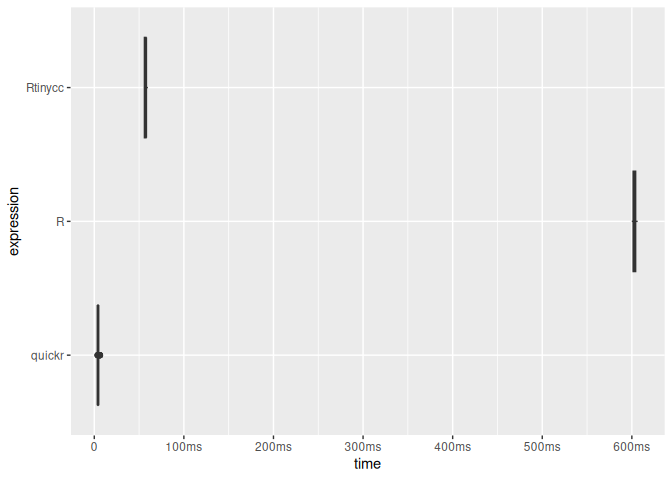
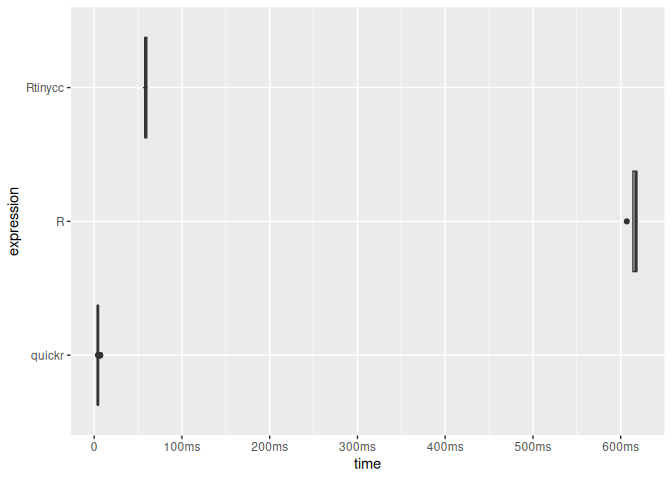
trigger the segfault again

diff --git a/README.md b/README.md
@@ -177,7 +177,7 @@ tcc_read_cstring(ptr)
 tcc_read_bytes(ptr, 5)
 #> [1] 68 65 6c 6c 6f
 tcc_ptr_addr(ptr, hex = TRUE)
-#> [1] "0x5c106311a850"
+#> [1] "0x5bb98a97a870"
 tcc_ptr_is_null(ptr)
 #> [1] FALSE
 tcc_free(ptr)
@@ -208,11 +208,11 @@ through output parameters.
 ptr_ref <- tcc_malloc(.Machine$sizeof.pointer %||% 8L)
 target <- tcc_malloc(8)
 tcc_ptr_set(ptr_ref, target)
-#> <pointer: 0x5c1065d1d020>
+#> <pointer: 0x5bb98b3f2050>
 tcc_data_ptr(ptr_ref)
-#> <pointer: 0x5c10632c0350>
+#> <pointer: 0x5bb98bed6de0>
 tcc_ptr_set(ptr_ref, tcc_null_ptr())
-#> <pointer: 0x5c1065d1d020>
+#> <pointer: 0x5bb98b3f2050>
 tcc_free(target)
 #> NULL
 tcc_free(ptr_ref)
@@ -275,8 +275,8 @@ bench::mark(
 #> # A tibble: 2 × 6
 #>   expression      min   median `itr/sec` mem_alloc `gc/sec`
 #>   <bch:expr> <bch:tm> <bch:tm>     <dbl> <bch:byt>    <dbl>
-#> 1 Rtinycc      36.2ms   37.9ms      21.9  213.99KB     35.8
-#> 2 Rbuiltin    552.5µs  592.4µs    1583.     9.05KB     28.0
+#> 1 Rtinycc      37.8ms   39.3ms      17.8  213.99KB     27.6
+#> 2 Rbuiltin    539.1µs  600.1µs    1571.     9.05KB     28.0
 
 # For performance-sensitive code, move the loop into C and operate on arrays.
 ffi_vec <- tcc_ffi() |>
@@ -305,8 +305,8 @@ bench::mark(
 #> # A tibble: 2 × 6
 #>   expression        min   median `itr/sec` mem_alloc `gc/sec`
 #>   <bch:expr>   <bch:tm> <bch:tm>     <dbl> <bch:byt>    <dbl>
-#> 1 Rtinycc_vec    20.7µs   21.3µs    44185.    39.1KB     31.0
-#> 2 Rbuiltin_vec   16.9µs   18.4µs    44899.    78.2KB     67.5
+#> 1 Rtinycc_vec    20.3µs   28.9µs    36128.    39.1KB     25.3
+#> 2 Rbuiltin_vec     17µs   32.7µs    37214.    78.2KB     55.9
 ```
 
 ### Variadic calls (e.g. `Rprintf` style)
@@ -428,7 +428,7 @@ ffi <- tcc_ffi() |>
 
 x <- as.integer(1:100) # to avoid ALTREP
 .Internal(inspect(x))
-#> @5c1067fba8e8 13 INTSXP g0c0 [REF(65535)]  1 : 100 (compact)
+#> @5bb9907aa128 13 INTSXP g0c0 [REF(65535)]  1 : 100 (compact)
 ffi$sum_array(x, length(x))
 #> [1] 5050
 
@@ -444,7 +444,7 @@ y[1]
 #> [1] 11
 
 .Internal(inspect(x))
-#> @5c1067fba8e8 13 INTSXP g0c0 [MARK,REF(65535)]  11 : 110 (expanded)
+#> @5bb9907aa128 13 INTSXP g0c0 [MARK,REF(65535)]  11 : 110 (expanded)
 ```
 
 ### Benchmark
@@ -508,9 +508,9 @@ timings
 #> # A tibble: 3 × 6
 #>   expression      min   median `itr/sec` mem_alloc `gc/sec`
 #>   <bch:expr> <bch:tm> <bch:tm>     <dbl> <bch:byt>    <dbl>
-#> 1 R          602.01ms 602.01ms      1.66     844KB    4.98 
-#> 2 quickr       3.65ms   4.16ms    241.       782KB    4.10 
-#> 3 Rtinycc     55.41ms  57.46ms     17.5      782KB    0.515
+#> 1 R          616.22ms 616.22ms      1.62     844KB    4.87 
+#> 2 quickr       3.83ms   4.18ms    238.       782KB    4.10 
+#> 3 Rtinycc     55.42ms  58.88ms     17.1      782KB    0.502
 plot(timings, type = "boxplot") + bench::scale_x_bench_time(base = NULL)
 ```
 
@@ -538,15 +538,15 @@ ffi <- tcc_ffi() |>
 
 p1 <- ffi$struct_point_new()
 ffi$struct_point_set_x(p1, 0.0)
-#> <pointer: 0x5c10697992a0>
+#> <pointer: 0x5bb998847330>
 ffi$struct_point_set_y(p1, 0.0)
-#> <pointer: 0x5c10697992a0>
+#> <pointer: 0x5bb998847330>
 
 p2 <- ffi$struct_point_new()
 ffi$struct_point_set_x(p2, 3.0)
-#> <pointer: 0x5c10627fb2a0>
+#> <pointer: 0x5bb998974330>
 ffi$struct_point_set_y(p2, 4.0)
-#> <pointer: 0x5c10627fb2a0>
+#> <pointer: 0x5bb998974330>
 
 ffi$distance(p1, p2)
 #> [1] 5
@@ -591,9 +591,9 @@ ffi <- tcc_ffi() |>
 
 s <- ffi$struct_flags_new()
 ffi$struct_flags_set_active(s, 1L)
-#> <pointer: 0x5c1066456280>
+#> <pointer: 0x5bb98fe648d0>
 ffi$struct_flags_set_level(s, 9L)
-#> <pointer: 0x5c1066456280>
+#> <pointer: 0x5bb98fe648d0>
 ffi$struct_flags_get_active(s)
 #> [1] 1
 ffi$struct_flags_get_level(s)
@@ -885,7 +885,7 @@ ffi <- tcc_ffi() |>
   tcc_compile()
 
 ffi$struct_point_new()
-#> <pointer: 0x5c10687a1ed0>
+#> <pointer: 0x5bb9986a79b0>
 ffi$enum_status_OK()
 #> [1] 0
 ffi$global_global_counter_get()
@@ -938,11 +938,11 @@ ffi <- tcc_ffi() |>
 o <- ffi$struct_outer_new()
 i <- ffi$struct_inner_new()
 ffi$struct_inner_set_a(i, 42L)
-#> <pointer: 0x5c10733557e0>
+#> <pointer: 0x5bb999c2bf60>
 
 # Write the inner pointer into the outer struct
 ffi$struct_outer_in_addr(o) |> tcc_ptr_set(i)
-#> <pointer: 0x5c10630c2220>
+#> <pointer: 0x5bb998937150>
 
 # Read it back through indirection
 ffi$struct_outer_in_addr(o) |>
@@ -971,9 +971,9 @@ ffi <- tcc_ffi() |>
 
 b <- ffi$struct_buf_new()
 ffi$struct_buf_set_data_elt(b, 0L, 0xCAL)
-#> <pointer: 0x5c10685d68b0>
+#> <pointer: 0x5bb98ac46aa0>
 ffi$struct_buf_set_data_elt(b, 1L, 0xFEL)
-#> <pointer: 0x5c10685d68b0>
+#> <pointer: 0x5bb98ac46aa0>
 ffi$struct_buf_get_data_elt(b, 0L)
 #> [1] 202
 ffi$struct_buf_get_data_elt(b, 1L)
